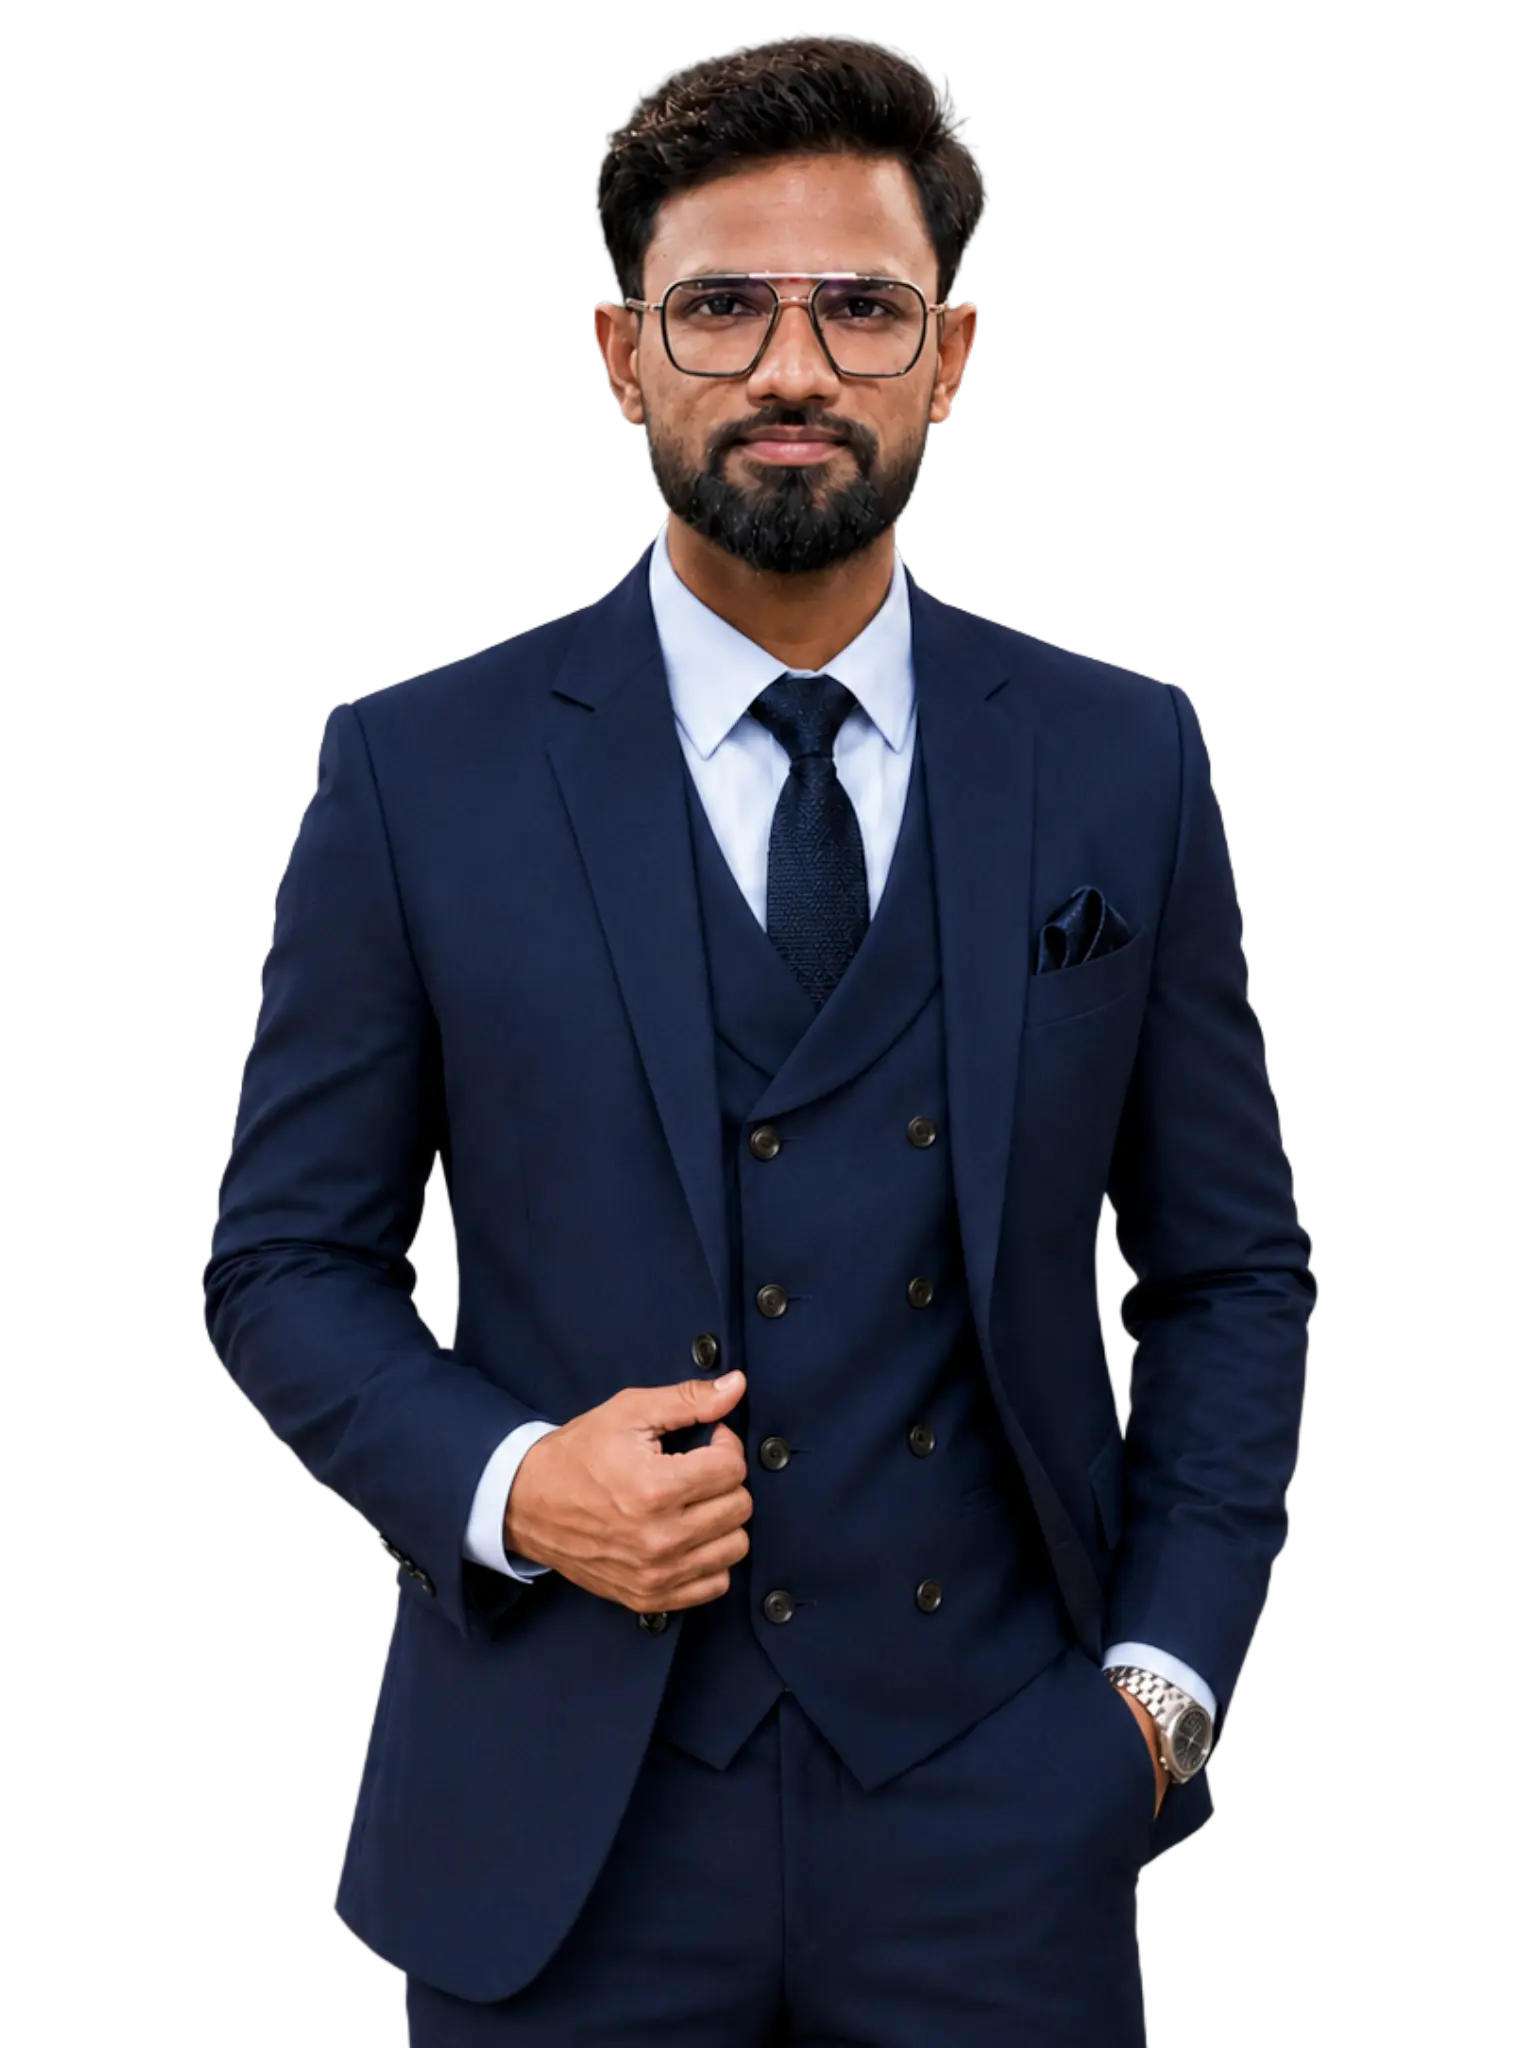
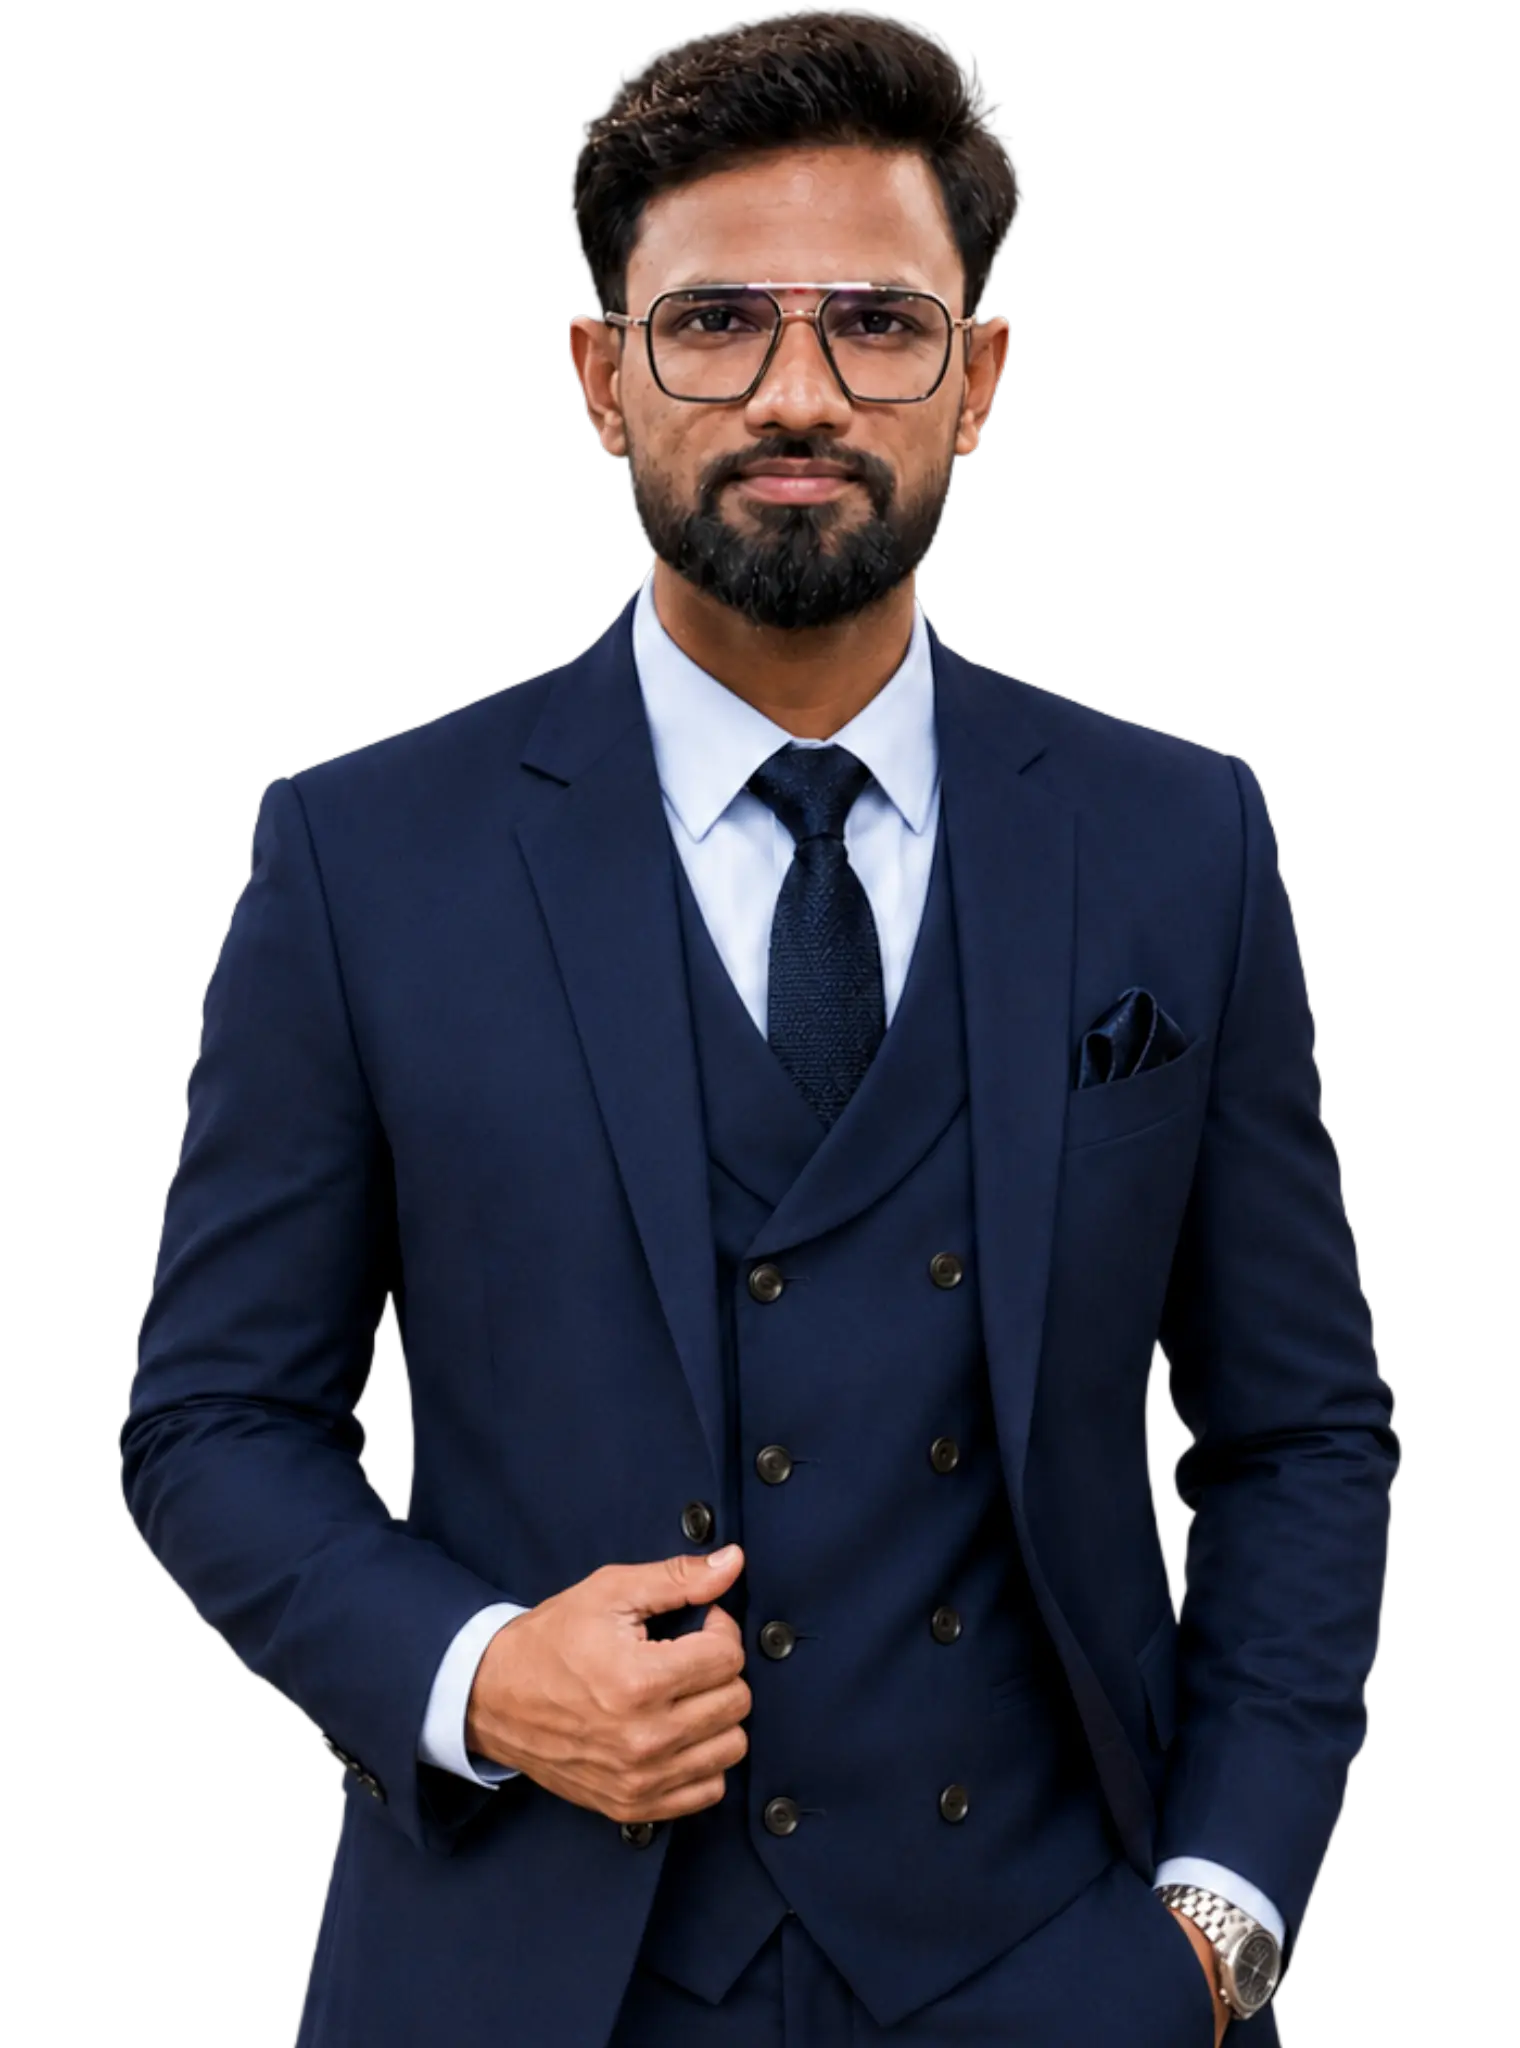
Fix: Update image format from PNG to WEBP for improved performance

diff --git a/components/JsonLdSchema.tsx b/components/JsonLdSchema.tsx
@@ -18,7 +18,7 @@ const JsonLdSchema: React.FC<JsonLdSchemaProps> = ({ type, pageUrl }) => {
     "jobTitle": ["AI Agents Developer", "Full Stack Developer", "Next.js Developer", "React Developer", "Web Developer"],
     "description": "AI Agents Developer, Full Stack Developer, and Next.js specialist. Expert in React, AI integration, and modern web development.",
     "url": baseUrl,
-    "image": `${baseUrl}/assets/owais-abdullah.png`,
+    "image": `${baseUrl}/assets/owais-abdullah.webp`,
     "sameAs": [
       "https://twitter.com/mrowaisabdullah",
       "https://linkedin.com/in/mrowaisabdullah",
